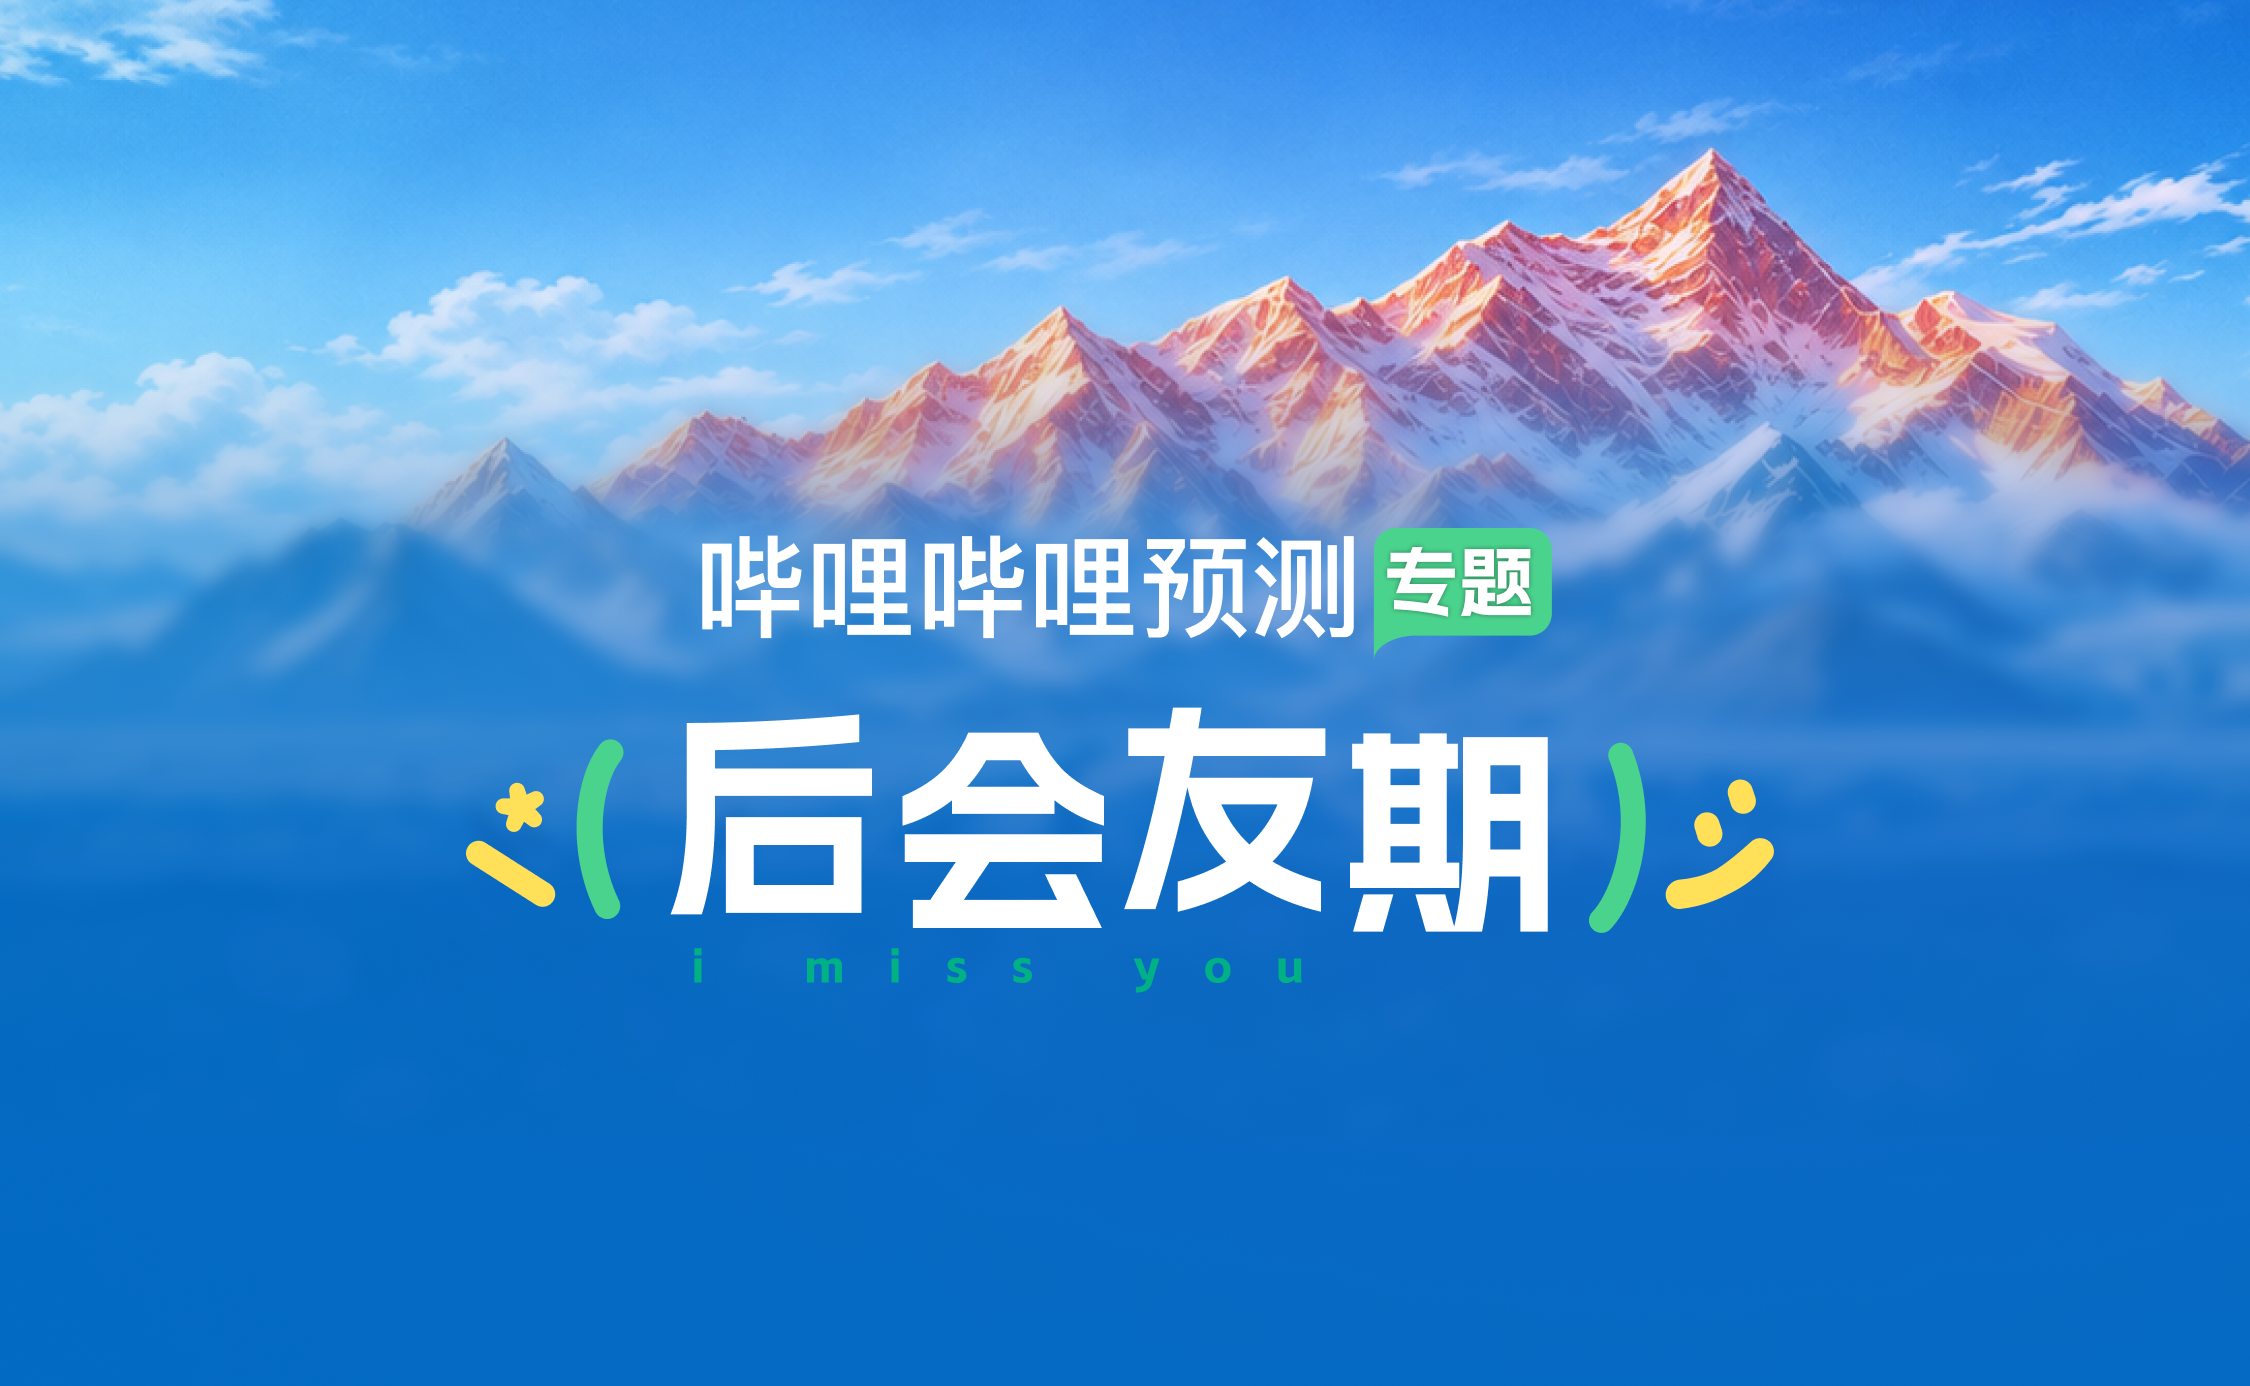
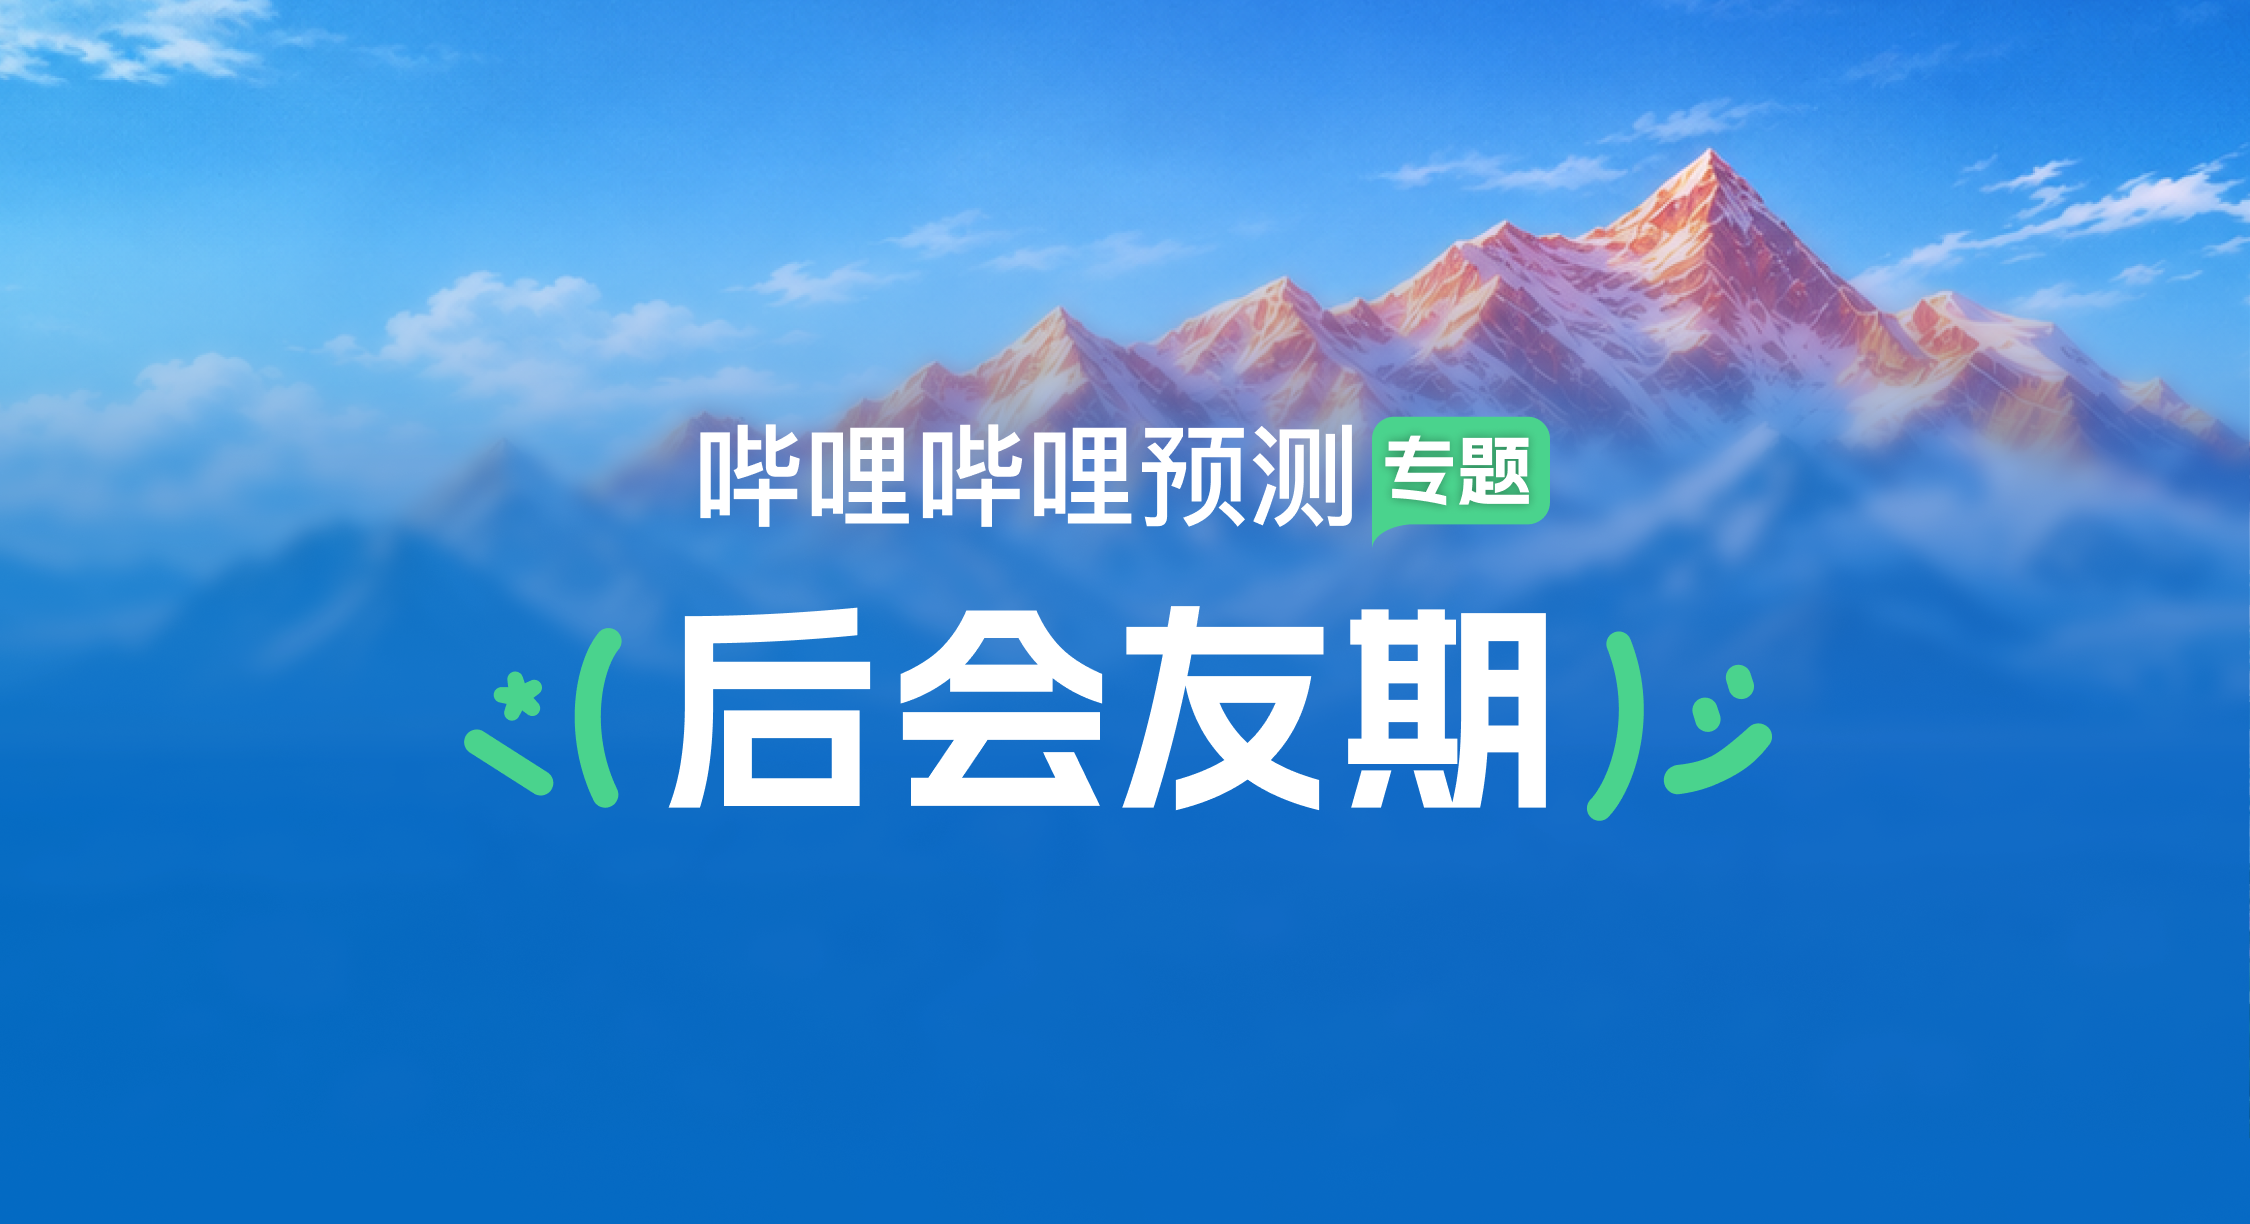
Refresh variant hero artwork

diff --git a/variant/index.html b/variant/index.html
@@ -13,7 +13,7 @@
 <body>
   <main class="page">
     <header class="hero hero-with-artwork">
-      <img class="hero-artwork" src="./assets/variant-hero.png?v=41" width="2250" height="1386" alt="哔哩哔哩预测 · 后会友期专题">
+      <img class="hero-artwork" src="./assets/variant-hero.png?v=42" width="2250" height="1224" alt="哔哩哔哩预测 · 后会友期专题">
       <button class="back" aria-label="返回"></button>
     </header>
 
